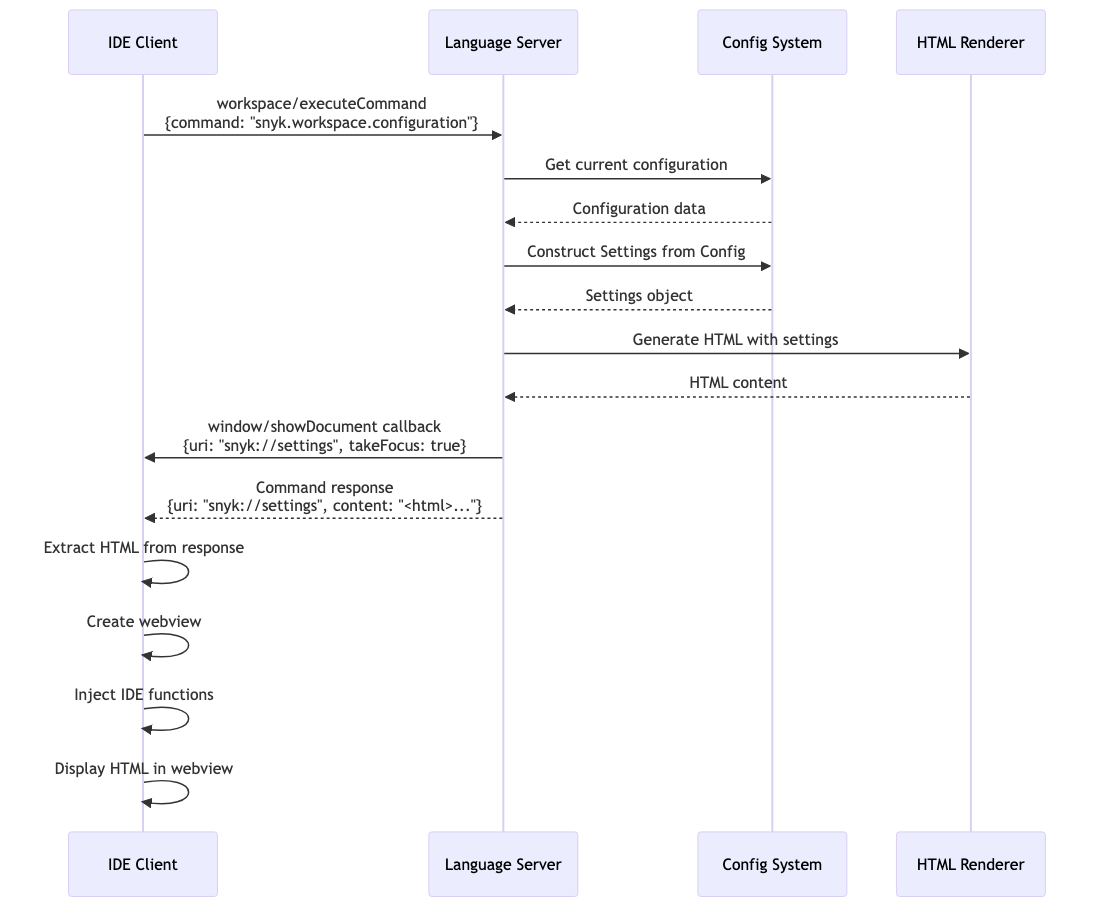
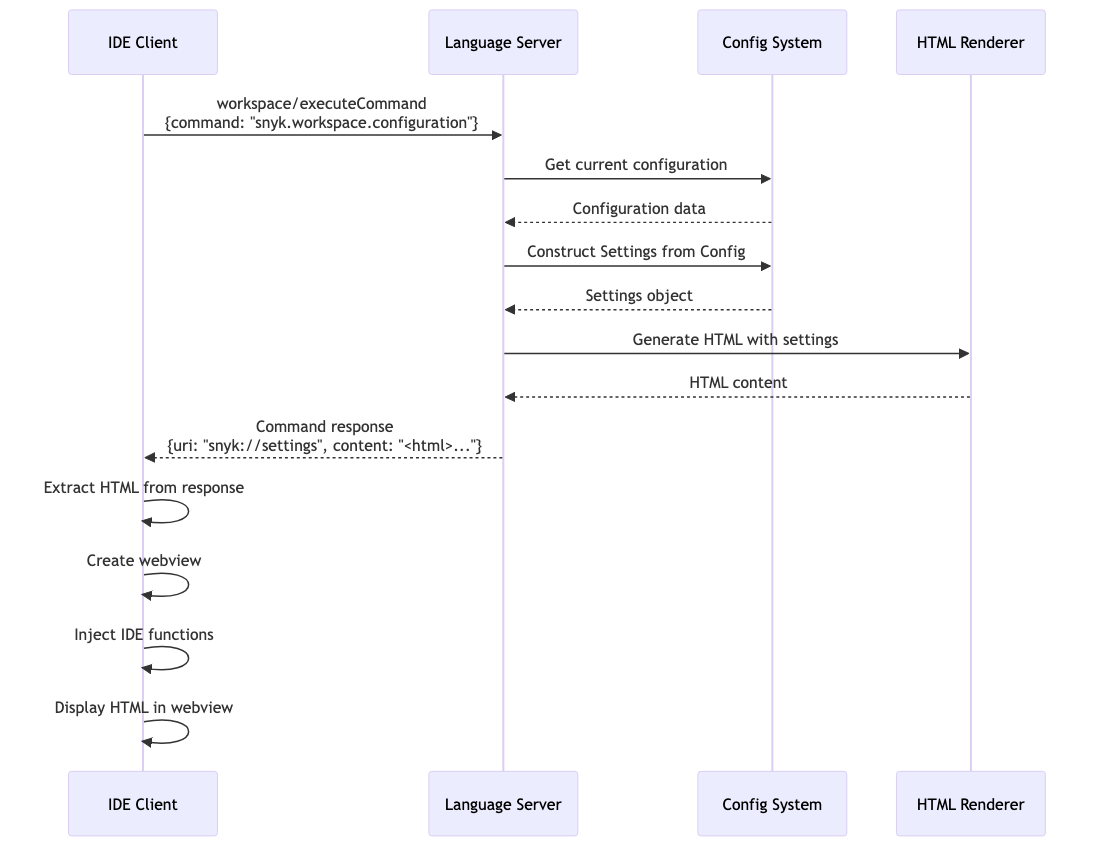
refactor: remove unnecessary window/showDocument callback [IDE-1455]
The window/showDocument callback is no longer needed since the command
response now includes both the URI and HTML content. Clients can act
directly on the command response without waiting for an additional callback.

**Code Changes:**
- domain/ide/command/configuration_command.go:
  - Removed window/showDocument callback notification
  - Command now simply returns {uri, content} response
  - Simplified logging

- application/server/configuration_smoke_test.go:
  - Removed callback verification from test
  - Test now only verifies command response content
  - Updated test documentation comment
  - Removed unused jsonRPCRecorder variable

**Documentation Changes:**
- docs/configuration-dialog.md:
  - Removed all references to window/showDocument callback
  - Updated integration guide to reflect direct response handling
  - Simplified implementation checklist
  - Updated sequence diagram to remove callback step

- docs/diagrams/configuration-dialog-open.mmd:
  - Removed window/showDocument callback from flow
  - Streamlined diagram to show direct response handling

- docs/images/configuration-dialog-open.png:
  - Re-rendered diagram without callback step

**Benefits:**
- Simpler integration for IDE developers
- Fewer moving parts in the protocol
- Clients get everything they need in one response
- No need to handle asynchronous callbacks

**Breaking Change:** None - clients were already receiving the content
[…]

diff --git a/application/server/configuration_smoke_test.go b/application/server/configuration_smoke_test.go
@@ -31,7 +31,7 @@ import (
 
 // Test_SmokeConfigurationDialog verifies that the configuration dialog:
 // 1. Can be triggered via workspace/executeCommand
-// 2. Sends window/showDocument callback with correct URI
+// 2. Returns response with URI and HTML content
 // 3. Generated HTML includes ALL settings fields from types.Settings
 // 4. Generated HTML includes ALL sub-fields from FolderConfig
 // 5. Includes authentication and logout triggers
@@ -40,7 +40,7 @@ func Test_SmokeConfigurationDialog(t *testing.T) {
 	testutil.CreateDummyProgressListener(t)
 
 	// Setup server with LSP client
-	loc, jsonRPCRecorder := setupServer(t, c)
+	loc, _ := setupServer(t, c)
 	di.Init()
 
 	// Execute the configuration command via LSP
@@ -55,21 +55,7 @@ func Test_SmokeConfigurationDialog(t *testing.T) {
 	err = response.UnmarshalResult(&result)
 	require.NoError(t, err, "Should unmarshal result")
 
-	// Verify window/showDocument callback was sent
-	callbacks := jsonRPCRecorder.FindCallbacksByMethod("window/showDocument")
-	require.Greater(t, len(callbacks), 0, "Should have sent window/showDocument callback")
-
-	// Verify the callback parameters
-	var showDocParams types.ShowDocumentParams
-	err = callbacks[0].UnmarshalParams(&showDocParams)
-	require.NoError(t, err)
-
-	// Verify the URI is the settings URI
-	assert.Equal(t, sglsp.DocumentURI("snyk://settings"), showDocParams.Uri, "Should show settings URI")
-	assert.False(t, showDocParams.External, "Should open internally")
-	assert.True(t, showDocParams.TakeFocus, "Should take focus")
-
-	// Extract HTML content from command result
+	// Verify command response contains URI and HTML content
 	require.NotNil(t, result, "Command should return result")
 	require.Contains(t, result, "content", "Result should contain content")
 	require.Contains(t, result, "uri", "Result should contain uri")

diff --git a/domain/ide/command/configuration_command.go b/domain/ide/command/configuration_command.go
@@ -41,20 +41,9 @@ func (cmd *configurationCommand) Execute(ctx context.Context) (any, error) {
 
 	uri := lsp.DocumentURI("snyk://settings")
 
-	params := types.ShowDocumentParams{
-		Uri:       uri,
-		External:  false,
-		TakeFocus: true,
-	}
+	cmd.logger.Debug().Str("method", method).Str("uri", string(uri)).Msg("returning configuration HTML")
 
-	cmd.logger.Debug().Str("method", method).Interface("params", params).Msg("sending showDocument request")
-	_, err = cmd.srv.Callback(ctx, "window/showDocument", params)
-	if err != nil {
-		cmd.logger.Err(err).Msg("failed to send window/showDocument callback")
-		return nil, err
-	}
-
-	// Return the HTML content so it can be verified by tests and potentially used by the client
+	// Return the HTML content for the client to display
 	return map[string]interface{}{
 		"uri":     string(uri),
 		"content": htmlContent,

diff --git a/docs/configuration-dialog.md b/docs/configuration-dialog.md
@@ -32,15 +32,7 @@ The IDE triggers the configuration dialog by executing the LSP command `snyk.wor
 }
 ```
 
-**Callback Notification:**
-The server also sends a `window/showDocument` callback:
-```json
-{
-  "uri": "snyk://settings",
-  "external": false,
-  "takeFocus": true
-}
-```
+The command returns both the URI identifier and the complete HTML content. The IDE can directly use this response to display the configuration dialog without waiting for additional notifications.
 
 See [Opening Configuration Dialog Sequence](#opening-configuration-dialog) for the detailed flow.
 
@@ -48,24 +40,25 @@ See [Opening Configuration Dialog Sequence](#opening-configuration-dialog) for t
 
 The IDE should:
 
-1. Extract the `content` field from the command response
-2. Create a webview or browser component
-3. Load the HTML content
+1. Execute the command and receive the response
+2. Extract the `content` field from the command response
+3. Create a webview or browser component
 4. Inject IDE-specific JavaScript functions (see [Function Injection](#function-injection))
+5. Load the HTML content and display it
 
 **Example (conceptual):**
 ```typescript
-// Execute command
+// Execute command and receive response
 const response = await client.sendRequest('workspace/executeCommand', {
   command: 'snyk.workspace.configuration',
   arguments: []
 });
 
-// Extract HTML
+// Extract HTML from response
 const html = response.content;
 const uri = response.uri;
 
-// Create webview
+// Create webview and display
 const webview = createWebview();
 webview.html = injectFunctions(html);
 webview.show();
@@ -284,8 +277,6 @@ sequenceDiagram
     LSP->>HTML: Generate HTML with settings
     HTML-->>LSP: HTML content
     
-    LSP->>IDE: window/showDocument callback<br/>{uri: "snyk://settings", takeFocus: true}
-    
     LSP-->>IDE: Command response<br/>{uri: "snyk://settings", content: "<html>..."}
     
     IDE->>IDE: Extract HTML from response
@@ -450,10 +441,10 @@ sequenceDiagram
 
 ### Basic Integration
 - [ ] Execute `snyk.workspace.configuration` command
-- [ ] Extract HTML content from response
+- [ ] Extract HTML content from command response
 - [ ] Create webview/browser component for display
 - [ ] Inject `ideLogin`, `ideSaveConfig`, `ideLogout` functions
-- [ ] Handle `window/showDocument` callback
+- [ ] Display HTML content in webview
 
 ### Configuration Management
 - [ ] Parse configuration data from dialog
